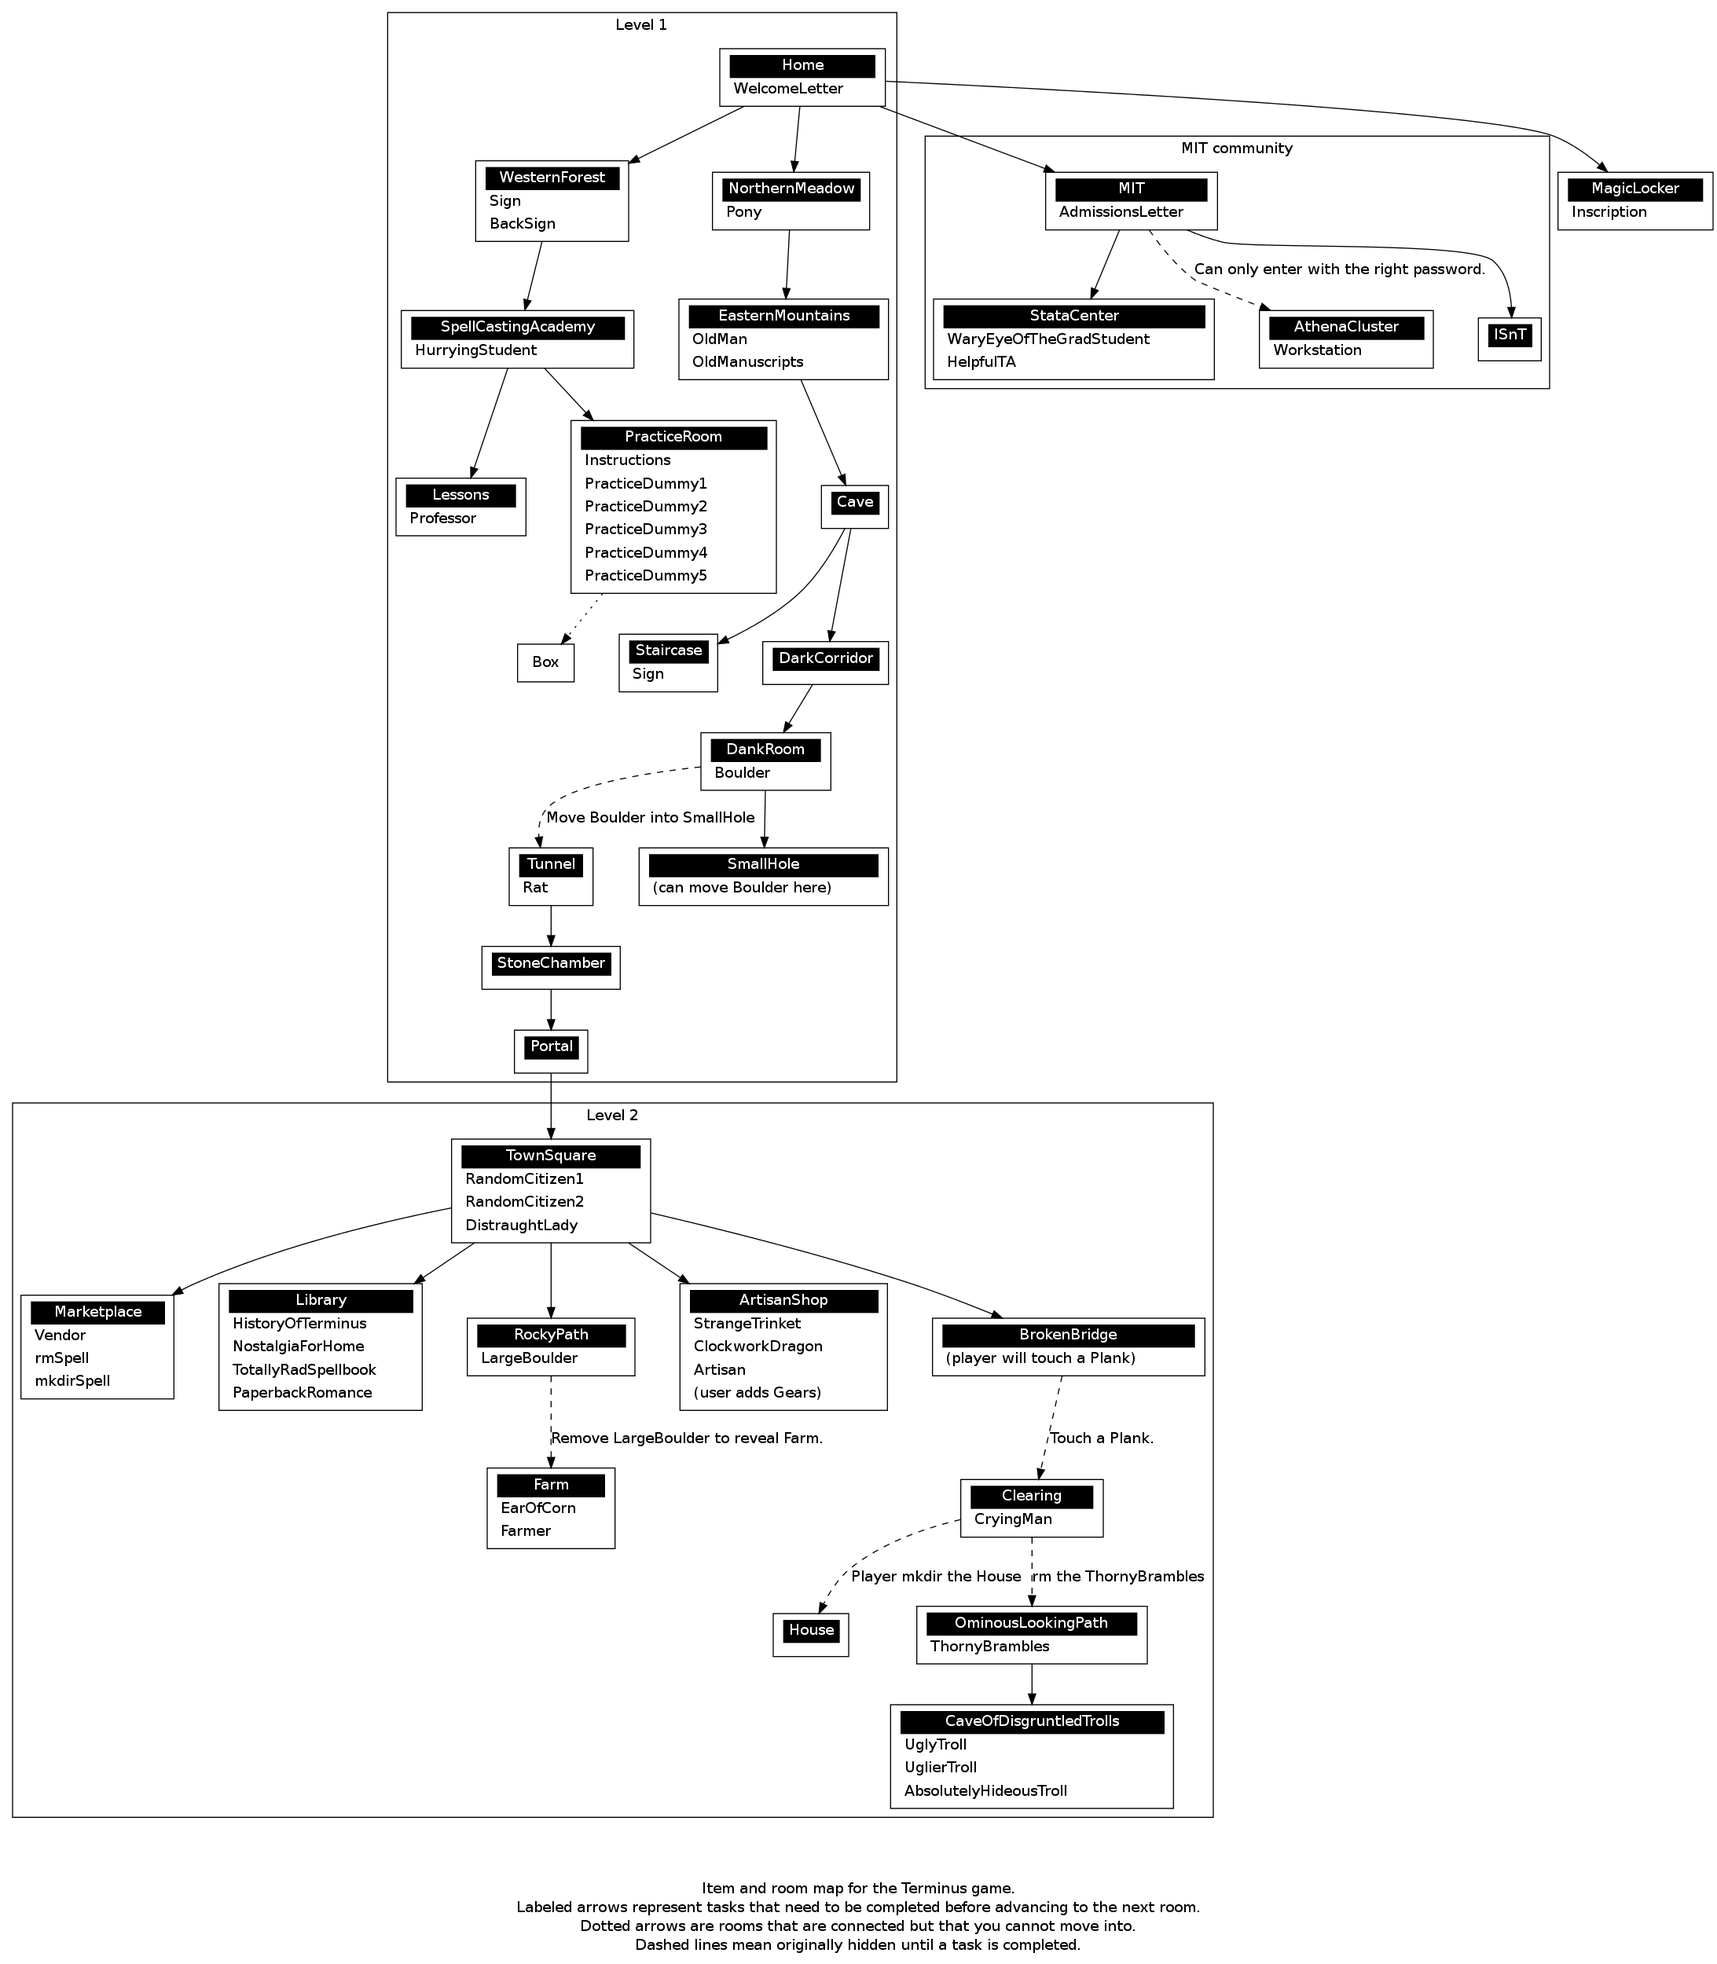
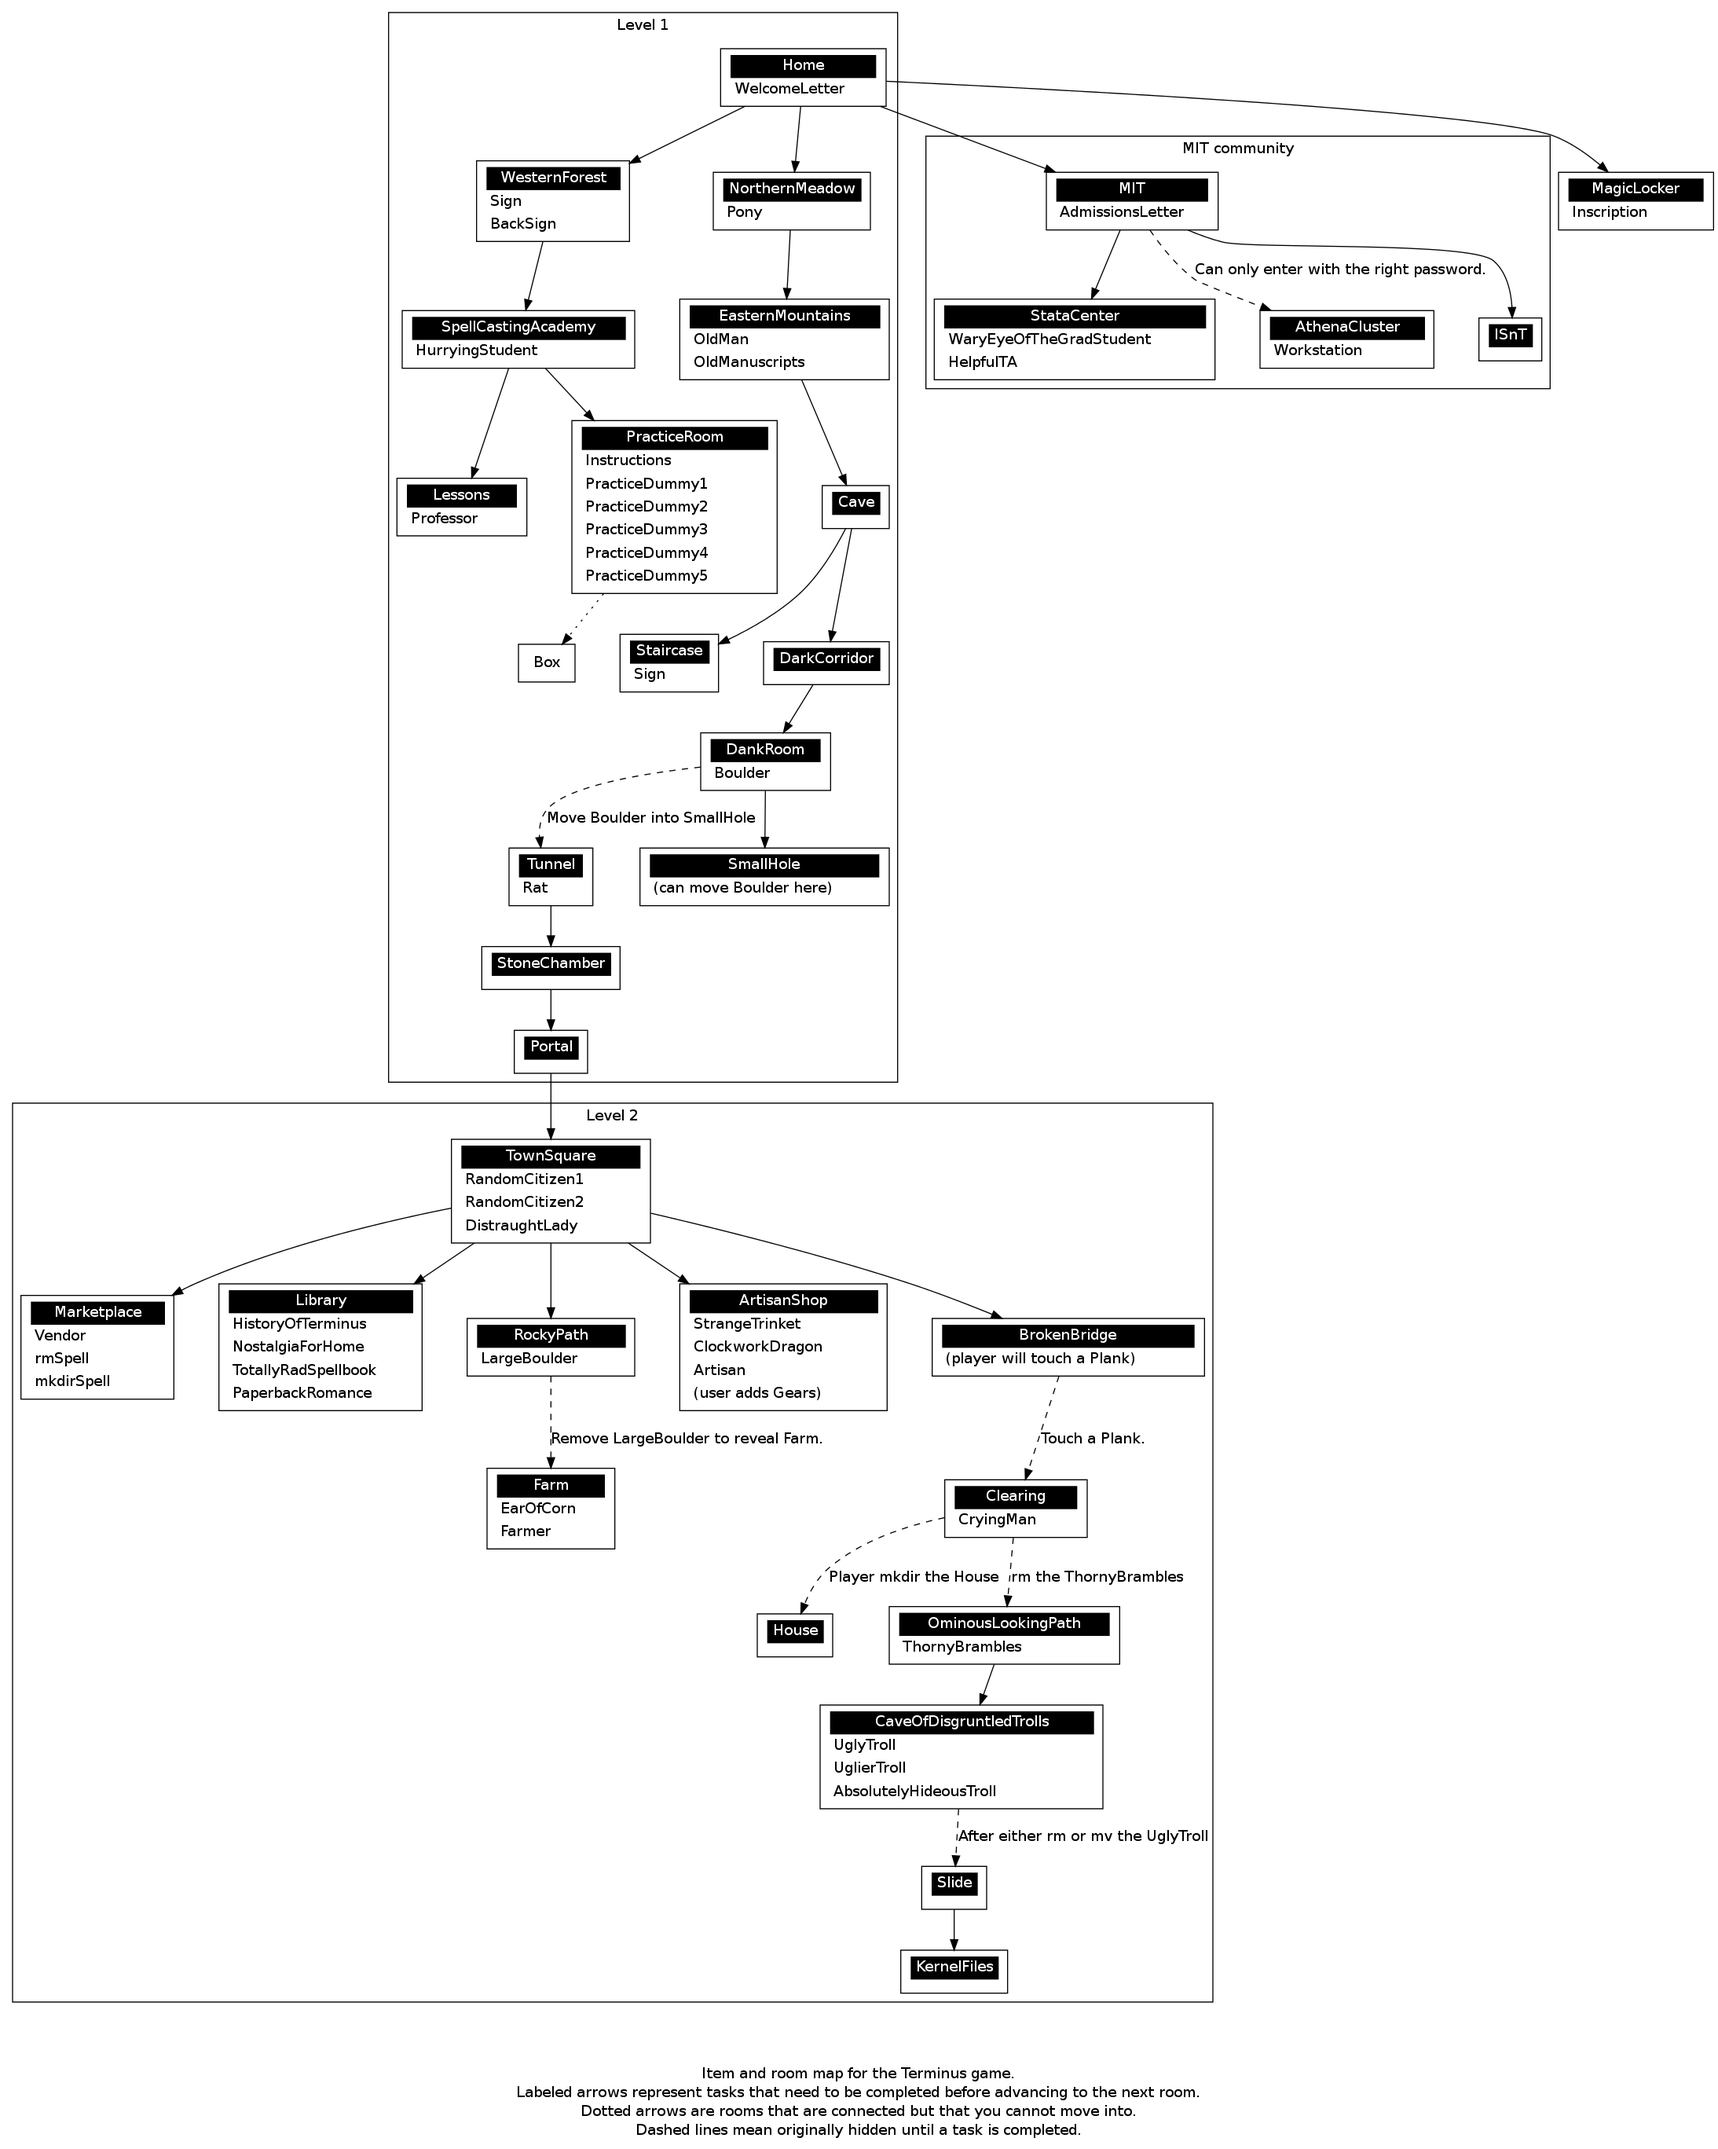
slide and kernel files set up with ugly troll

diff --git a/Web/static/javascript/GameObjects.js b/Web/static/javascript/GameObjects.js
@@ -461,9 +461,10 @@ some reason it fills you with a sense of dread.",
     "loc_path.gif");
 var ThornyBrambles = new Item("ThornyBrambles", 
     "This thicket of brambles is covered with wicked-looking thorns. You \
-can't go around it, and you definitely aren't about to go through it.",
+can't go around it, and you definitely aren't about to go through it. And yet something\
+tells you that you really want to.",
     "item_brambles.gif");
-ThornyBrambles.addCmdText("mv", 
+ThornyBrambles.addCmdText("mv",
     "You can't touch them because they are covered with thorns. Ouch!");
 ThornyBrambles.addCmdText("rm", 
     "You speak the words of the Remove spell and the brambles glimmer a \
@@ -472,12 +473,21 @@ ThornyBrambles.addValidCmd("rm");
 OminousLookingPath.addItem(ThornyBrambles);
 OminousLookingPath.addCommand("rm");
 OminousLookingPath.ev.addListener("rmBrambles", function(){
-    link_rooms(OminousLookingPath, CaveOfTrolls);
+    link_rooms(OminousLookingPath, CaveOfDisgruntledTrolls) ;
 });
+
+//SLIDE
+var Slide = new Room("Slide", "The slides is long. At the end, you see the KernelFiles.");
+Slide.removeCommand("cd");
+Slide.addCmdText("cd", "You have to get past the UglyTroll first.");
+
+//KERNEL FILES
+var KernelFiles = new Room("KernelFiles", "The KernelFiles hold the sudo-secret (no, not\
+    pseudo).")
 
 //CAVE
 //Room beforeCave = new Room("CaveOfDisgruntledTrolls", "A patch of thorny brambles is growing at the mouth of the cave, blocking your way.", "loc_cave");
-var CaveOfTrolls = new Room("CaveOfDisgruntledTrolls", 
+var CaveOfDisgruntledTrolls = new Room("CaveOfDisgruntledTrolls", 
     "The cave is dark and smells like... feet? Oh, right, it's probably the trolls. \
 There's a scared-looking kid in a cage by the far wall.",
     "loc_cave.gif");
@@ -486,15 +496,26 @@ var UglyTroll = new Item("UglyTroll",
     "item_troll1.gif");
 UglyTroll.addCmdText("rm",
     "The troll looks briefy surprised, then vanishes with an unpleasant squelching sound.");
-Boulder.addValidCmd("rm");
-CaveOfTrolls.addItem(UglyTroll);
+UglyTroll.addValidCmd("rm");
+UglyTroll.addValidCmd("mv");
+UglyTroll.addCmdText("mv", "The troll looks briefly surprised, then moves away. He's mostly\
+    harmless anyway.")
+UglyTroll.addValidCmd("cp");
+UglyTroll.addCmdText("cp", "They're multiplying!");
+CaveOfDisgruntledTrolls.addItem(UglyTroll);
 //beforeCave.addItem(uglyTroll);
-var UglierTroll = new Item("UglierTroll", 
-    "He looks mad, and really, really ugly.",
+var UglierTroll = new Item("UglierTroll", "He looks mad, and really, really ugly. \
+    But he wants to tell you something. Between his\
+    garbled grunts, you manage to understand the following:\
+    You can cast spells on items that you don't currently see. For example, if you want\
+    to copy an item from this room to the OminousLookingPath from which you came, you can\
+    cp [ITEM_TO_COPY] ../[NEW_ITEM_NAME]. You can do this for most spells and most rooms. \
+    Use this knowledge wisely. Remember.... you can't undo an 'rm' spell.",
     "item_troll2.gif");
+UglierTroll.addValidCmd("rm");
 UglierTroll.addCmdText("rm",
     "The troll looks briefy surprised, then vanishes with an unpleasant squelching sound.");
-CaveOfTrolls.addItem(UglierTroll);
+CaveOfDisgruntledTrolls.addItem(UglierTroll);
 //beforeCave.addItem(uglierTroll);
 /*hideousTroll = new MoveableItem("AbsolutelyHideousTroll", "You probably don't want to look at this guy. Oops, too late. \n", "item_supertroll");
 hideousTroll.setRMText("The troll belches spectacularly, and you could swear he actually smirks. \n" +
@@ -506,14 +527,21 @@ var HideousTroll = new Item("AbsolutelyHideousTroll",
     "item_supertroll.gif");
 HideousTroll.addCmdText("rm", 
     "The troll belches spectacularly, and you could swear he actually smirks. \
-You won't get rid of him that easily, not without the PASSWORD.");
+You won't get rid of him that easily, not without the 'sudo password'. It's not\
+'pseudo', it's 'sudo'. You'll find that in KernelFiles. But first you have to\
+get past the UglyTroll to the Slide.");
 HideousTroll.addCmdText("mv", 
     "If you move him out of the cave, he'll terrorize \
 the countryside. Also he will probably eat you.");
-CaveOfTrolls.addItem(HideousTroll);
+CaveOfDisgruntledTrolls.addItem(HideousTroll);
 //beforeCave.addItem(hideousTroll);
-CaveOfTrolls.addCommand("rm");
-CaveOfTrolls.addCommand("mv");
+CaveOfDisgruntledTrolls.addCommand("rm");
+CaveOfDisgruntledTrolls.addCommand("mv");
+CaveOfDisgruntledTrolls.addCommand("cp");
+CaveOfDisgruntledTrolls.ev.addListener("openSlide", function(){
+    Slide.addCommand("cd");
+    Slide.addCmdText("cd", "It's just a Slide. Keep going. You're almost at the KernelFiles.");
+});
 
 //CAGE
 var Cage = new Room("Cage", 
@@ -523,6 +551,9 @@ var KidnappedChild = new Item("KidnappedChild",
     "You know it's kind of mean, but you can't help but think that that is one \
 funny-looking kid.",
     "item_cagedboy.gif");
+Cage.removeCommand("cd");
+Cage.addCmdText("cd", "You can’t squeeze through the bars. Anyway, are you crazy? \
+    Why would you want to go into a cage?");
 KidnappedChild.addCmdText("mv", 
     "The kid looks around, dazed, surprised to find himself out of the cage. \
 You smile at him and speak in a gentle voice. 'You should probably be getting home, \
@@ -632,8 +663,10 @@ link_rooms(TownSquare, BrokenBridge);
 // link_rooms(RockyPath, Farm);
 link_rooms(BrokenBridge, Clearing);
 link_rooms(Clearing, OminousLookingPath);
-// link_rooms(OminousLookingPath, CaveOfTrolls);
-//link_rooms(CaveOfTrolls, Cave);
+// link_rooms(OminousLookingPath, CaveOfDisgruntledTrolls) ;
+link_rooms(CaveOfDisgruntledTrolls, Cage);
+link_rooms(Slide, KernelFiles);
+link_rooms(CaveOfDisgruntledTrolls, Slide);
 
 //MIT level links
 link_rooms(Home, MIT);

diff --git a/Web/static/javascript/Room.js b/Web/static/javascript/Room.js
@@ -264,9 +264,13 @@ Room.prototype.mv = function(args){
 	if (args.length != 2){
 		return "You need to move thing A to place B. Use mov [thingA] [placeB].";
 	} else {
-		if ((this.itemStringArray().indexOf(args[0]) >= 0) && (this.childrenStringArray().indexOf(args[1]) >= 0)){
+		var item_name_to_move = this.itemStringArray().indexOf(args[0]);
+		if ((item_name_to_move >= 0) && (this.childrenStringArray().indexOf(args[1]) >= 0)){
 			itemtoadd = this.items[this.itemStringArray().indexOf(args[0])];
 			this.children[this.childrenStringArray().indexOf(args[1])].addItem(itemtoadd);
+			if ((this.itemStringArray().indexOf(args[0]) === "UglyTroll") && (this.room_name === "CaveOfDisgruntledTrolls")){
+				this.ev.fire("openSlide");
+			}
 			this.removeItem(args[0]);
 			return "Moved " + args[0] + " to " + args[1] + ".";
 		} else {
@@ -286,6 +290,9 @@ Room.prototype.rm = function(args){
 					var removedItem = this.removeItem(args[i]);
 					if (removedItem.itemname === "ThornyBrambles" && this.room_name === "OminousLookingPath"){
 						this.ev.fire("rmBrambles")
+					}
+					if (removedItem.itemname === "UglyTroll" && this.room_name === "CaveOfDisgruntledTrolls"){
+						this.ev.fire("openSlide");
 					}
 					if ("rm" in removedItem.cmd_text){
 						stringtoreturn += removedItem.cmd_text["rm"] + "\n";

diff --git a/Web/static/javascript/Game.js b/Web/static/javascript/Game.js
@@ -1,7 +1,7 @@
 var state = new GameState();
 //read cookie if one exists
 // var current_room = state.getCurrentRoom();
-var current_room = OminousLookingPath;
+var current_room = CaveOfDisgruntledTrolls;
 var man_pages = {"cd": "The old man's voice echoes in your head as if from a great distance: \n"+
 "(Choose Destination) Use \"cd\" to move about the world. \n" +
 "Command Input: cd LOCATION \n" +
